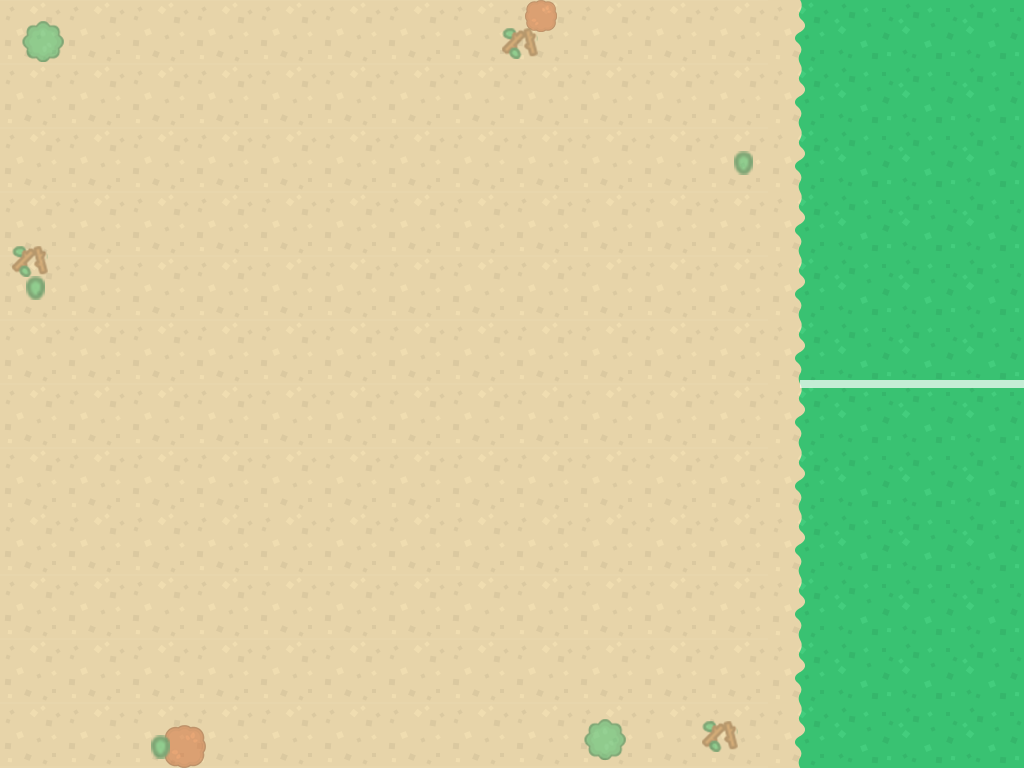
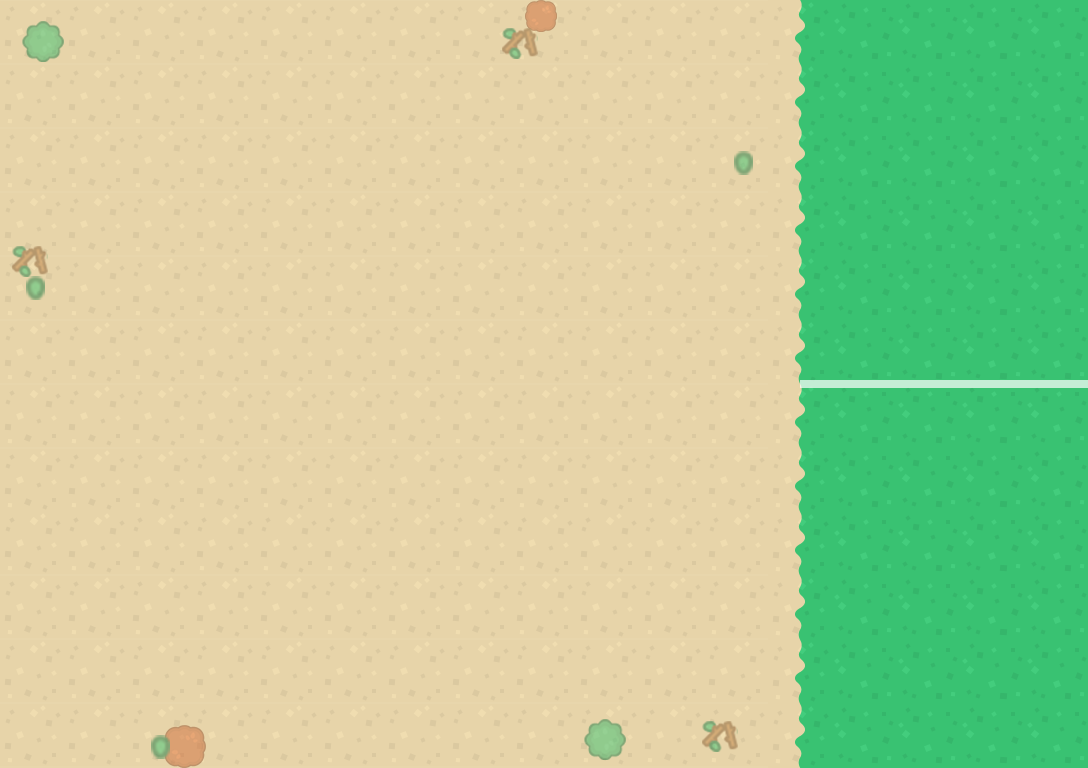
철창 사이즈 바꿈

diff --git a/src/master_guinea_pigs/gameGUI.java b/src/master_guinea_pigs/gameGUI.java
@@ -29,7 +29,7 @@ public class gameGUI implements Runnable {
 
 	ImageIcon room = new ImageIcon("ground2.png");
 	Image newImage = room.getImage();
-	Image changedImage = newImage.getScaledInstance(1024, 768, Image.SCALE_SMOOTH);
+	Image changedImage = newImage.getScaledInstance(1024+64, 768, Image.SCALE_SMOOTH);
 	ImageIcon newRoom = new ImageIcon(changedImage);
 	JLayeredPane jlp = frame.getLayeredPane();
 	
@@ -60,7 +60,7 @@ public class gameGUI implements Runnable {
 		mtr_five = _5;
 		key = keyyy;
 		
-		frame.setBounds(0, 0, 1042, 816);
+		frame.setBounds(0, 0, 1042+64, 816);
 		frame.getContentPane().add(panel);
 		ImageIcon grass = new ImageIcon("tileGrass2.png");
 		
@@ -235,7 +235,7 @@ public class gameGUI implements Runnable {
 								pig_x_me = pig_x_me + 50;
 					            break; 
 						}
-						jail_.setBounds(820, 178, 190, 555);
+						jail_.setBounds(820, 178, 250, 555);
 						panel.add(jail_);
 						jlp.add(jail_,1);
 					}
